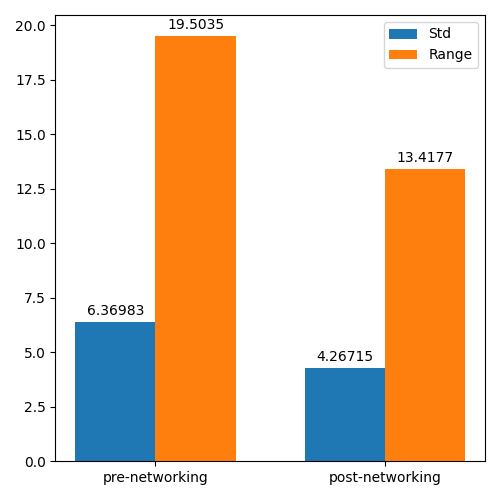
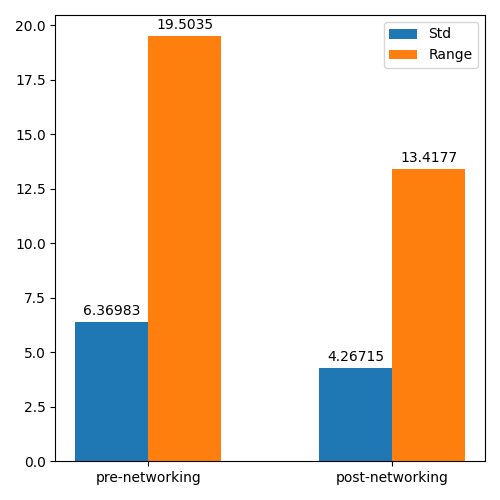
reformat codes

Changed region(s): [[0.15, 0.03, 0.48, 0.99], [0.6, 0.33, 0.9, 0.99], [0.78, 0.3, 0.93, 0.33]]

diff --git a/plot_data.py b/plot_data.py
@@ -44,22 +44,23 @@ def read_csv(path):
 
 
 def get_movement_matrix(pre, post):
-	categories = pre[0]
-	pre_data = pre[2]
-	post_data = post[2]
+    categories = pre[0]
+    pre_data = pre[2]
+    post_data = post[2]
 
-	movement = np.zeros((len(categories), len(categories)))
+    movement = np.zeros((len(categories), len(categories)))
 
-	for cc in range(pre_data.shape[0]):
-		for rr in range(pre_data.shape[1]):
-			if pre_data[cc, rr] != '':
-				found = np.where(post_data==pre_data[cc, rr])
+    for cc in range(pre_data.shape[0]):
+        for rr in range(pre_data.shape[1]):
+            if pre_data[cc, rr] != '':
+                found = np.where(post_data == pre_data[cc, rr])
 
-				if found:
-					for f in range(len(found[0])):
-						movement[cc, found[0][f]] += 1
-	print(movement)
-	return movement
+                if found:
+                    for f in range(len(found[0])):
+                        movement[cc, found[0][f]] += 1
+    print(movement)
+    return movement
+
 
 def plot_pie(pre, post):
     # plot the percentage of categories before and after networking
@@ -83,16 +84,16 @@ def plot_bar(pre, post):
     pre_data_bar = pre[1]
     post_data_bar = post[1]
 
-    std_dev = [np.std(pre_data_bar/np.sum(pre_data_bar))* 100, np.std(post_data_bar/np.sum(post_data_bar)) * 100]
-    range_ = [(np.max(pre_data_bar/np.sum(pre_data_bar)) - np.min(pre_data_bar/np.sum(pre_data_bar))) * 100,
-             (np.max(post_data_bar/np.sum(post_data_bar)) - np.min(post_data_bar/np.sum(post_data_bar))) * 100]
+    std_dev = [np.std(pre_data_bar / np.sum(pre_data_bar)) * 100, np.std(post_data_bar / np.sum(post_data_bar)) * 100]
+    range_ = [(np.max(pre_data_bar / np.sum(pre_data_bar)) - np.min(pre_data_bar / np.sum(pre_data_bar))) * 100,
+              (np.max(post_data_bar / np.sum(post_data_bar)) - np.min(post_data_bar / np.sum(post_data_bar))) * 100]
 
     # plot:
     fig, ax = plt.subplots(figsize=(5, 5))
-    width = 0.35
+    width = 0.3
     x = np.arange(len(cat))
-    rects1 = ax.bar(x-width/2, std_dev, width, label='Std')
-    rects2 = ax.bar(x+width/2, range_, width, label='Range')
+    rects1 = ax.bar(x - width / 2, std_dev, width, label='Std')
+    rects2 = ax.bar(x + width / 2, range_, width, label='Range')
 
     ax.set_xticks(x, cat)
     ax.legend()
@@ -158,23 +159,26 @@ def plot_rank(pre, post):
 
 
 def plot_heatmap(pre, post):
-	move = get_movement_matrix(pre, post)
+    move = get_movement_matrix(pre, post)
 
-	fig = plt.figure(figsize=(5,5))
-	plt.xlabel('To'), plt.ylabel('From')
-	plt.xticks(ticks=np.arange(len(pre[0])), labels=pre[0], rotation=90)
-	plt.yticks(ticks=np.arange(len(pre[0])), labels=pre[0])
+    fig = plt.figure(figsize=(5, 5))
+    plt.xlabel('To'), plt.ylabel('From')
+    plt.xticks(ticks=np.arange(len(pre[0])), labels=pre[0], rotation=90)
+    plt.yticks(ticks=np.arange(len(pre[0])), labels=pre[0])
 
-	hm = plt.imshow(move, cmap='inferno')
-	plt.colorbar(hm)
+    hm = plt.imshow(move, cmap='inferno')
+    plt.colorbar(hm)
 
-	plt.tight_layout(), plt.show()
+    plt.tight_layout()
+    plt.show()
+    plt.savefig('./media/heatmap.png')
+
 
 if __name__ == '__main__':
     pre_data = read_csv(path_pre_net)
     post_data = read_csv(path_post_net)
 
-	plot_heatmap(pre_data, post_data)
+    plot_heatmap(pre_data, post_data)
     plot_pie(pre_data, post_data)
     plot_rank(pre_data, post_data)
     plot_bar(pre_data, post_data)
